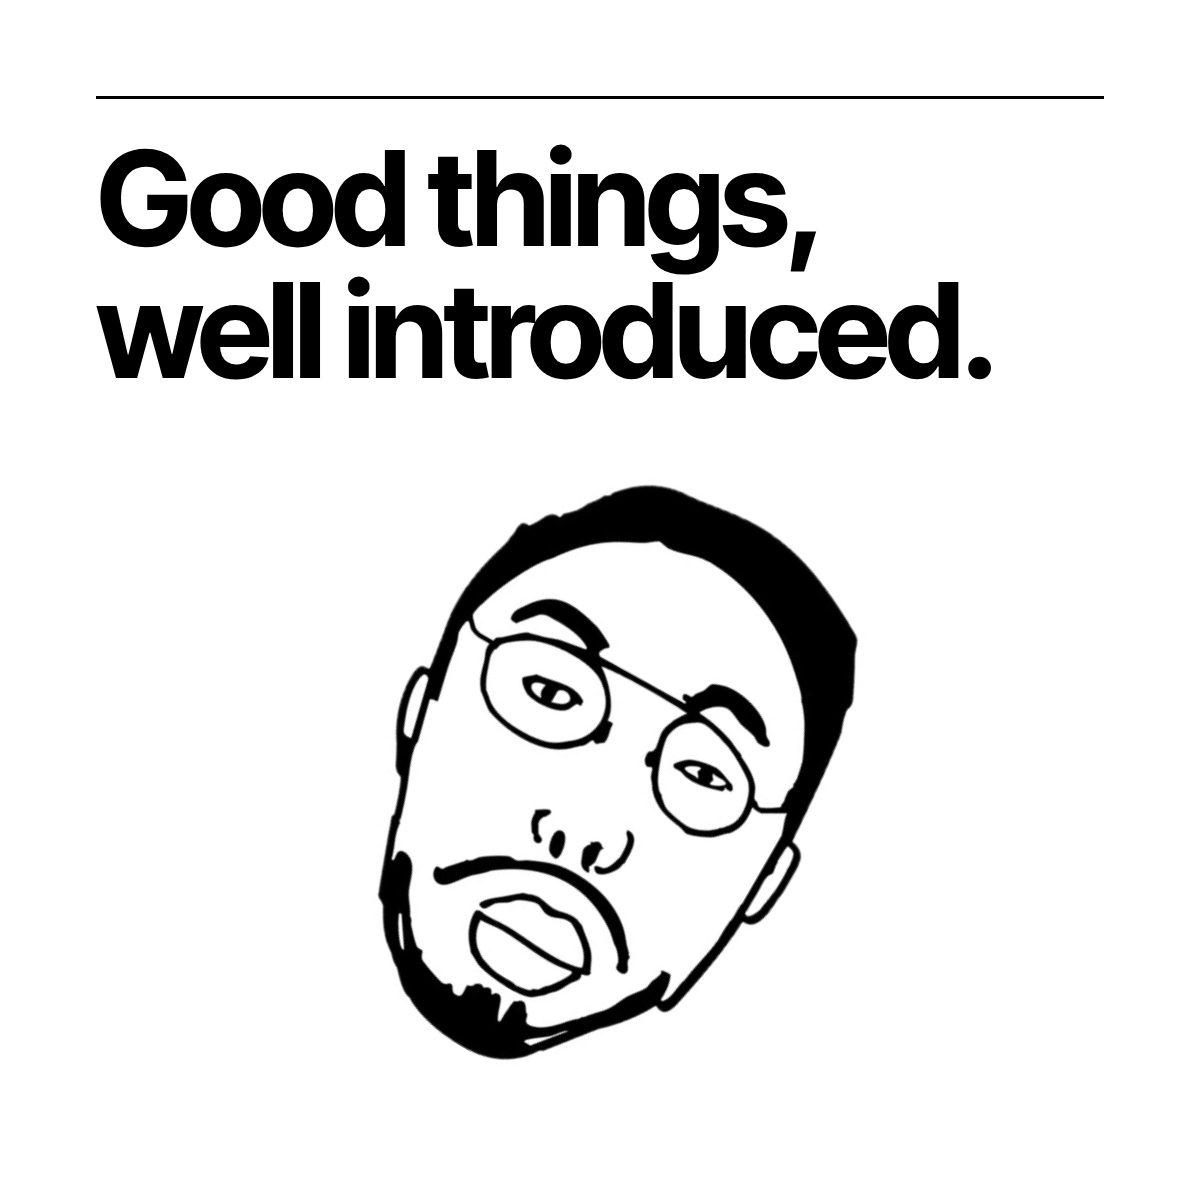
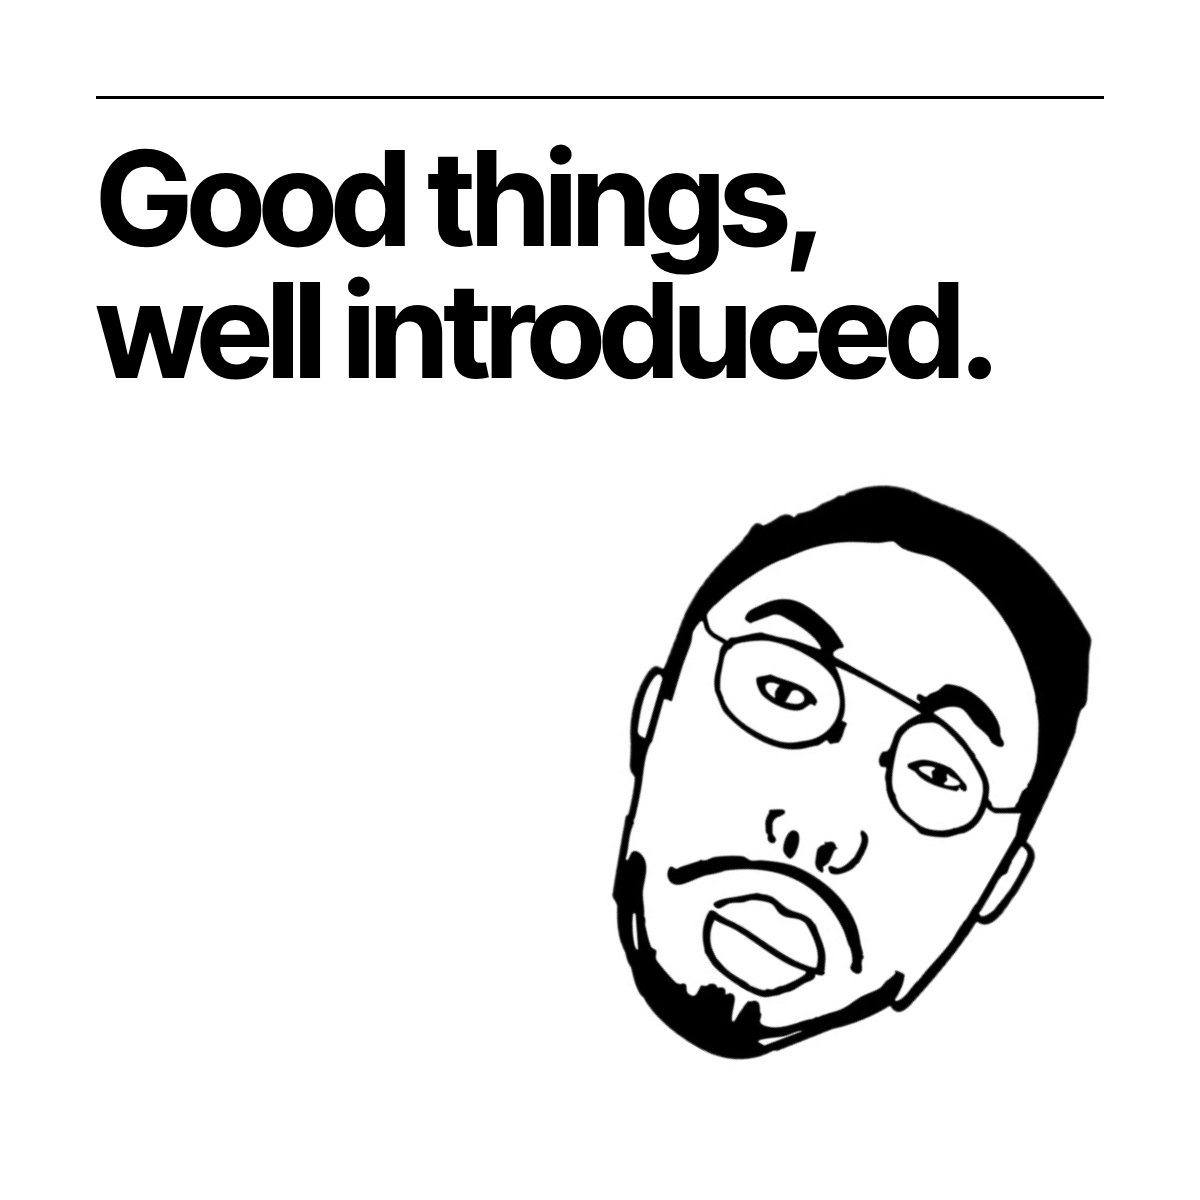
Preview image: face to the right
Claude-Session: https://claude.ai/code/session_01Ugy7eNxLhXQX9V2rZ3WeVd

Changed region(s): [[0.3083, 0.4008, 0.925, 0.8942]]

diff --git a/index.html b/index.html
@@ -11,14 +11,14 @@
 <meta property="og:title" content="주식회사 일인자">
 <meta property="og:description" content="Good things, well introduced.">
 <meta property="og:url" content="https://1stman.kr/">
-<meta property="og:image" content="https://1stman.kr/og.png?v=3">
+<meta property="og:image" content="https://1stman.kr/og.png?v=4">
 <meta property="og:image:width" content="1200">
 <meta property="og:image:height" content="1200">
 <meta property="og:image:alt" content="Good things, well introduced.">
 <meta name="twitter:card" content="summary_large_image">
 <meta name="twitter:title" content="주식회사 일인자">
 <meta name="twitter:description" content="Good things, well introduced.">
-<meta name="twitter:image" content="https://1stman.kr/og.png?v=3">
+<meta name="twitter:image" content="https://1stman.kr/og.png?v=4">
 <link rel="icon" href="favicon.png" type="image/png">
 <link rel="preconnect" href="https://fonts.googleapis.com">
 <link rel="preconnect" href="https://fonts.gstatic.com" crossorigin>
